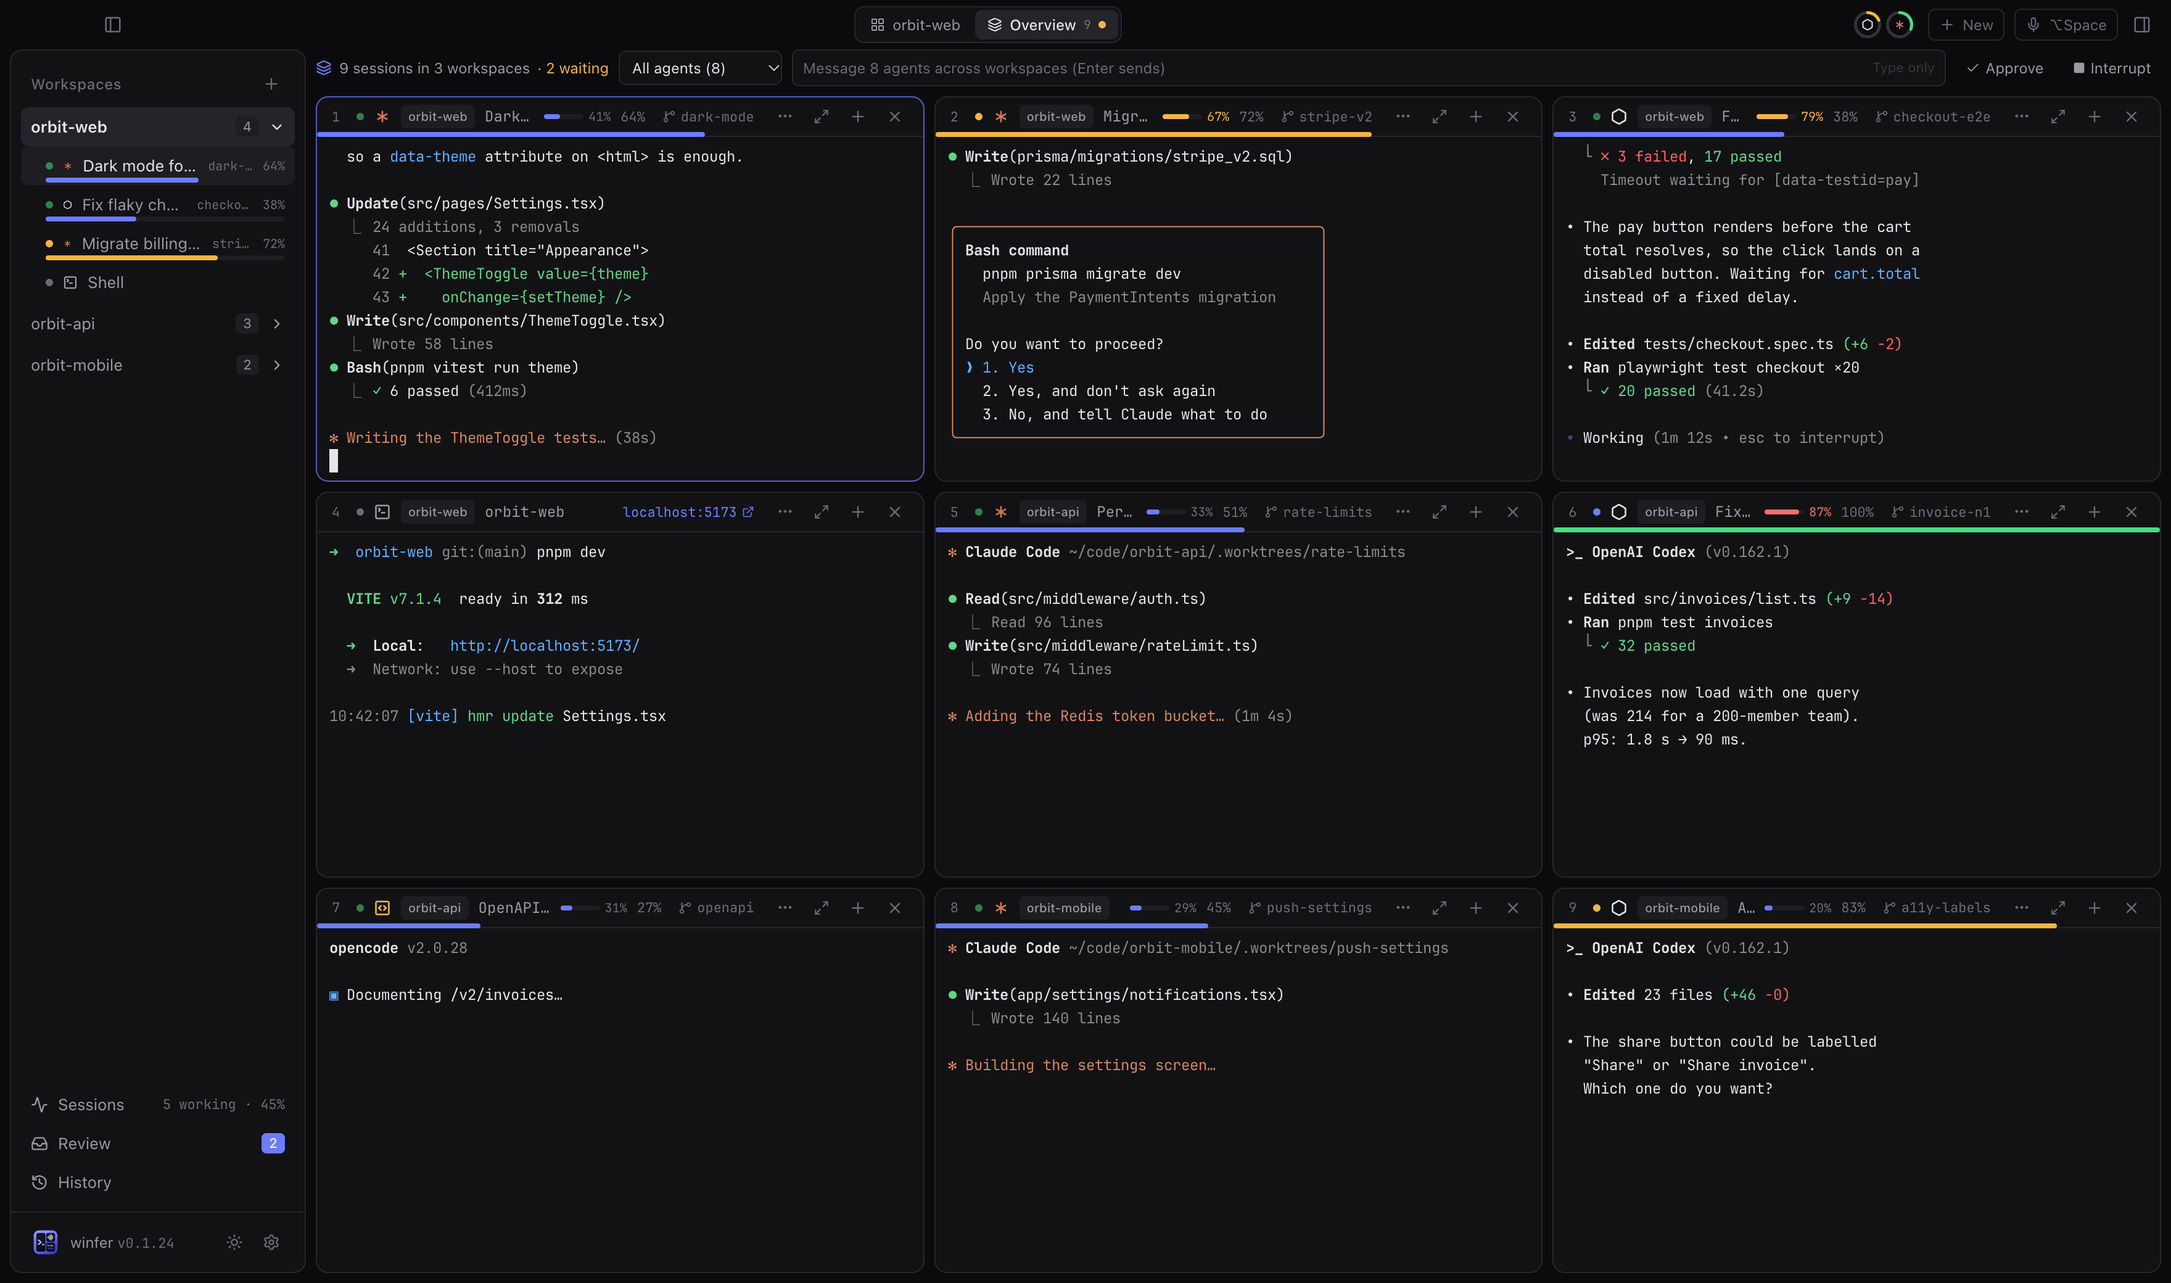
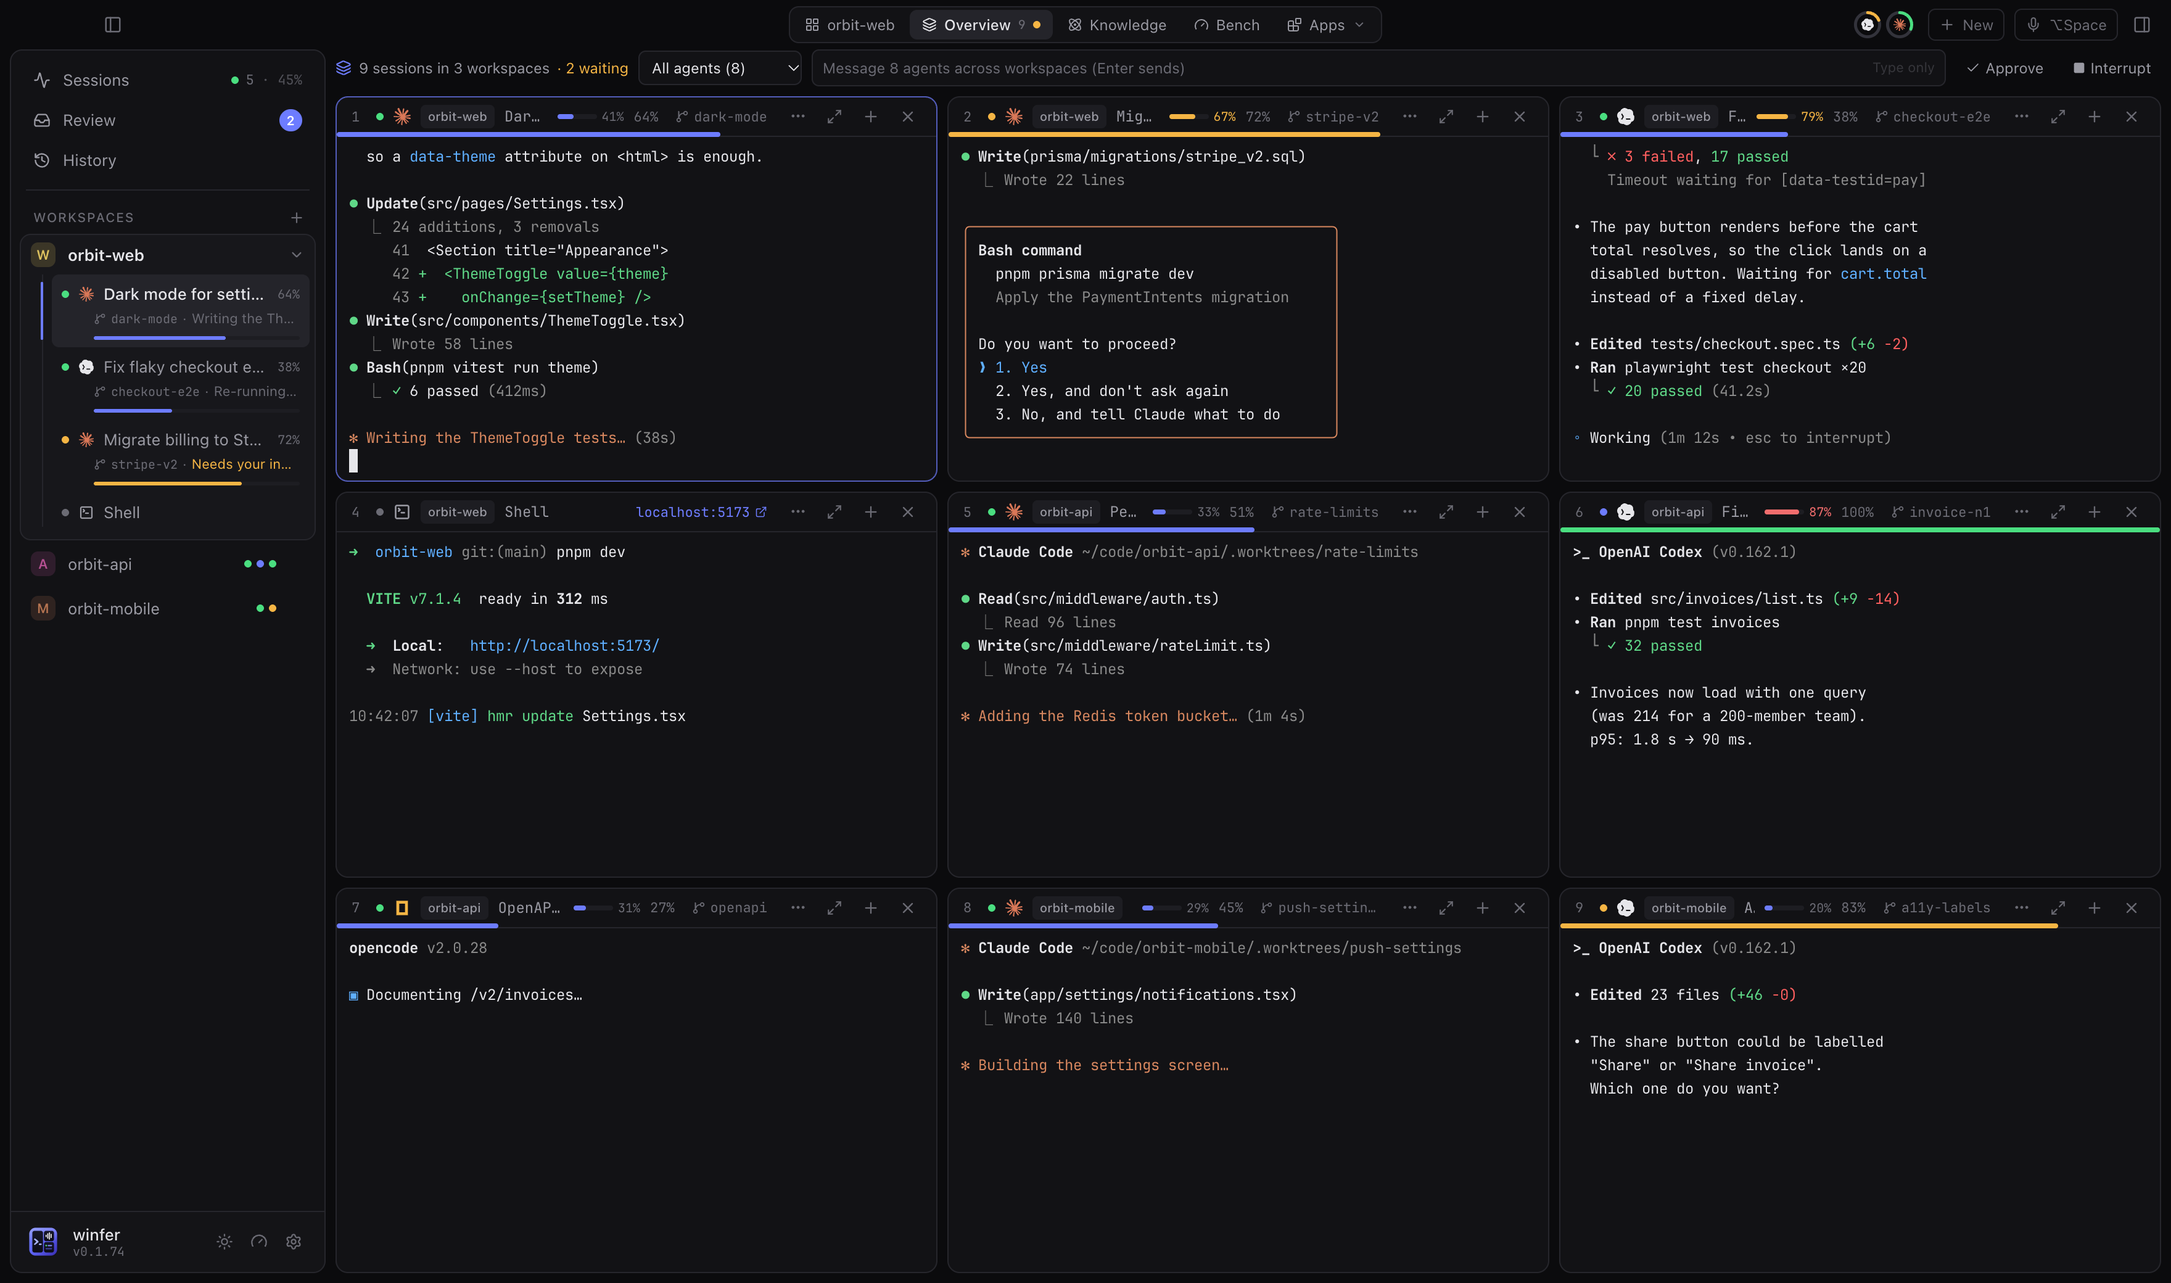
README Knowledge and Harness Bench sections, new screenshots, pane labels, plugin and harness fixes

diff --git a/src/dev/showcase.ts b/src/dev/showcase.ts
@@ -1,11 +1,27 @@
 /**
  * Dev-only demo data for marketing screenshots: open the dev server with `?showcase=<scene>`
- * (hero, overview, review, usage, sessions, light) and the mock backend serves this state,
+ * (hero, overview, review, usage, sessions, light, knowledge, bench) and the mock backend serves this state,
  * realistic agent sessions and a fake app in the browser. `scripts/screenshots.sh` captures
  * every scene into docs/screenshots.
  */
 
 export const SHOWCASE = new URLSearchParams(location.search).get("showcase");
+
+/** Scenes that show a plugin page instead of the workspace, keyed by scene. */
+const PAGE_SCENES: Record<string, string> = {
+  knowledge: "page:knowledge-base/galaxy",
+  bench: "page:harness-bench/bench",
+};
+// Headless Chrome's virtual time (scripts/screenshots.sh) leaves CSS animations and transitions
+// half-done in the capture, so the showcase shows every element in its final state.
+if (SHOWCASE) {
+  const style = document.createElement("style");
+  style.textContent = "*, *::before, *::after { animation: none !important; transition: none !important; }";
+  document.head.append(style);
+}
+
+/** Scenes without the browser panel. */
+const NO_BROWSER = SHOWCASE === "overview" || SHOWCASE === "review" || (SHOWCASE ?? "") in PAGE_SCENES;
 
 const ROOT = "/Users/maya/code";
 const wt = (repo: string, name: string, branch = `winfer/${name}`) => ({
@@ -174,7 +190,7 @@ export function showcaseState() {
     ui: {
       activeWorkspaceId: "ws-web",
       sidebarOpen: true,
-      browserOpen: SHOWCASE !== "overview" && SHOWCASE !== "review",
+      browserOpen: !NO_BROWSER,
       browserWidth: 520,
       sidePanel: "browser",
       theme,
@@ -250,7 +266,7 @@ const TRANSCRIPTS: Record<string, string> = {
     ),
   "p-e2e": lines(
     `${bold(">_ OpenAI Codex")} ${gray("(v0.162.1)")}`,
-    gray("model: gpt-5.5   directory: ~/code/orbit-web"),
+    gray("model: gpt-6.1-sol   directory: ~/code/orbit-web"),
     "",
     `${gray("›")} The checkout e2e test fails every few runs,`,
     `  find out why and fix it`,
@@ -477,7 +493,7 @@ export async function seedShowcase() {
     ],
   });
   // The browser panel shows the app the agents are working on.
-  if (SHOWCASE === "overview" || SHOWCASE === "review") return;
+  if (NO_BROWSER) return;
   browser.execute({ type: "browser.open", url: "http://localhost:5173/settings" });
 }
 
@@ -503,5 +519,11 @@ export async function stageScene() {
     meter?.click();
   }
   if (SHOWCASE === "overview") s.setActiveWorkspace("ws-web");
+  const page = PAGE_SCENES[SHOWCASE ?? ""];
+  if (page) {
+    s.setView(page as `page:${string}`);
+    // Let the page load its data (and the graph settle) before the capture.
+    await new Promise((r) => setTimeout(r, 2500));
+  }
   document.documentElement.dataset.showcaseReady = "1";
 }

diff --git a/src/features/terminal/PaneFrame.tsx b/src/features/terminal/PaneFrame.tsx
@@ -11,7 +11,7 @@ import { PaneSearch } from "./PaneSearch";
 import { beginDrag, useDrag } from "@/features/layout/drag";
 import { TerminalHost } from "./TerminalHost";
 import { useStarting } from "./xtermRegistry";
-import { paneTitle, providerName, useWorkspaces, type Pane } from "@/stores/workspaces";
+import { paneLabel, providerName, useWorkspaces, type Pane } from "@/stores/workspaces";
 import { useProgress } from "@/features/progress/progress";
 import { ProgressBar, progressLabel } from "@/features/progress/SessionsOverview";
 import { ContextMeter } from "@/features/usage/UsageMeter";
@@ -53,6 +53,7 @@ export function PaneFrame({ pane, index, focused, zoomed, onFocus, workspaceName
   const showProgress = pane.provider !== "shell" && progress?.percent != null;
   const starting = useStarting((s) => s[pane.id]);
   const name = useWorkspaces((s) => providerName(s.providers, pane.provider));
+  const label = useWorkspaces((s) => paneLabel(pane, s.providers, progress?.title ?? progress?.task));
   const [renaming, setRenaming] = useState(false);
   const [isNew] = useState(() => !seen.has(pane.id));
   seen.add(pane.id);
@@ -91,10 +92,10 @@ export function PaneFrame({ pane, index, focused, zoomed, onFocus, workspaceName
         ) : (
           <span
             className="flex-1 truncate font-mono text-xs text-fg-muted"
-            title={`${paneTitle(pane) ?? pane.title}\nDouble-click to rename`}
+            title={`${label === name ? name : `${name}: ${label}`}\nDouble-click to rename`}
             onDoubleClick={() => setRenaming(true)}
           >
-            {paneTitle(pane) ?? pane.title}
+            {label}
           </span>
         )}
         <ContextMeter paneId={pane.id} provider={pane.provider} />

diff --git a/src/features/workspaces/Sidebar.tsx b/src/features/workspaces/Sidebar.tsx
@@ -212,7 +212,7 @@ function WorkspacePanes({ workspace: ws, focusedPaneId, openMenu }: { workspace:
             onDoubleClick={() => setRenaming(pane.id)}
             onContextMenu={(e) => openMenu(e, { title: pane.worktree?.branch ?? pane.cwd, items: paneMenu(pane, () => setRenaming(pane.id)) })}
             className={cn(
-              "anim-slide relative ml-2 block w-[calc(100%-0.5rem)] cursor-default rounded-md px-2 py-1.5 text-left text-[13px] transition-colors duration-150",
+              "anim-slide relative ml-2 block w-[calc(100%-0.5rem)] cursor-pointer rounded-md px-2 py-1.5 text-left text-[13px] transition-colors duration-150",
               focused ? "bg-active text-fg" : "text-fg-muted hover:bg-hover hover:text-fg",
               drag?.id === pane.id && "opacity-50",
             )}
@@ -299,7 +299,7 @@ export function Sidebar() {
                 onContextMenu={(e) => openMenu(e, { title: ws.rootDir, items: workspaceMenu(ws) })}
                 title={`${ws.rootDir}\nDouble-click to open · drag to reorder`}
                 className={cn(
-                  "group flex w-full items-center gap-2.5 rounded-lg px-2 py-1.5 text-left text-[13px] transition-colors duration-150",
+                  "group flex w-full cursor-pointer items-center gap-2.5 rounded-lg px-2 py-1.5 text-left text-[13px] transition-colors duration-150",
                   active ? "font-semibold text-fg" : "text-fg-muted hover:bg-hover hover:text-fg",
                 )}
               >

diff --git a/src/dev/mockTauri.ts b/src/dev/mockTauri.ts
@@ -42,15 +42,15 @@ function installMockPlugin(id: string) {
   if (i >= 0) mockPlugins[i] = plugin;
   else mockPlugins.push(plugin);
 }
-// `?kb` starts with the Knowledge Base plugin installed (see ./knowledgeBase.ts).
-if (KB_DEMO) installMockPlugin("knowledge-base");
+// `?kb` starts with the Knowledge Base plugin installed (see ./knowledgeBase.ts); so does showcase mode.
+if (KB_DEMO || SHOWCASE) installMockPlugin("knowledge-base");
 // `?xp` starts with the Cross-Project Knowledge plugin and three linked demo projects (see ./crossProject.ts).
 if (XP_DEMO) {
   installMockPlugin("cross-project");
   seedCrossProject();
 }
-// `?bench` starts with Harness Bench and a fake runner (see ./harnessBench.ts).
-if (BENCH_DEMO) installMockPlugin("harness-bench");
+// `?bench` starts with Harness Bench and a fake runner (see ./harnessBench.ts); so does showcase mode.
+if (BENCH_DEMO || SHOWCASE) installMockPlugin("harness-bench");
 // Fake keychain: the vault keeps values here.
 const vault = new Map<string, { info: { key: string; meta: Record<string, unknown>; updatedAt: number }; value: string }>();
 // `?db` starts with Databases (one fake Postgres shop, see ./dbExplorer.ts) and Prompt Library.

diff --git a/plugins/knowledge-base/index.js b/plugins/knowledge-base/index.js
@@ -2584,8 +2584,14 @@ function searchNodes(g, text, limit = 12) {
 }
 
 function countUp(el, to) {
-  const start = performance.now();
+  if (matchMedia("(prefers-reduced-motion: reduce)").matches) {
+    el.textContent = to.toLocaleString();
+    return;
+  }
+  // Times from the first frame: performance.now() can run ahead of frame times (headless virtual time).
+  let start = null;
   const step = (t) => {
+    start ??= t;
     const k = Math.min(1, (t - start) / 900);
     el.textContent = Math.round(to * easeOut(k)).toLocaleString();
     if (k < 1 && el.isConnected) requestAnimationFrame(step);

diff --git a/src-tauri/src/harness/tui/app.rs b/src-tauri/src/harness/tui/app.rs
@@ -38,7 +38,7 @@ pub struct Launch {
 
 pub const COMMANDS: [(&str, &str); 22] = [
     ("/model", "Switch model (ChatGPT, Claude, Codex)"),
-    ("/effort", "Set reasoning effort"),
+    ("/effort", "Set reasoning effort (ctrl+r cycles)"),
     ("/mode", "Permission mode: ask, auto-edit, plan, yolo"),
     ("/new", "Start a new conversation"),
     ("/resume", "Resume a past session"),
@@ -778,7 +778,7 @@ impl App {
     }
 
     fn help(&mut self) {
-        let mut s = String::from("Keys\n  enter send · shift/alt+enter or ctrl+j newline · esc interrupt · ctrl+c clear/quit\n  shift+tab permission mode · ctrl+o expand details · ctrl+p command palette · ctrl+t model · ctrl+g subagents (ctrl+x there stops one) · ctrl+x plan (or click it)\n  ↑/↓ history · pgup/pgdn or wheel scroll · @ attach file · ctrl+v paste image · ! run shell command\n  drag to select and copy · double-click a word · triple-click a line · shift+drag for the terminal's own selection\n\nCommands\n");
+        let mut s = String::from("Keys\n  enter send · shift/alt+enter or ctrl+j newline · esc interrupt · ctrl+c clear/quit\n  shift+tab permission mode · ctrl+o expand details · ctrl+p command palette · ctrl+t model · ctrl+r effort · ctrl+g subagents (ctrl+x there stops one) · ctrl+x plan (or click it)\n  ↑/↓ history · pgup/pgdn or wheel scroll · @ attach file · ctrl+v paste image · ! run shell command\n  drag to select and copy · double-click a word · triple-click a line · shift+drag for the terminal's own selection\n\nCommands\n");
         for (c, d) in COMMANDS {
             s.push_str(&format!("  {c:<10} {d}\n"));
         }
@@ -1143,6 +1143,22 @@ impl App {
             }
         }
         self.saved.model = self.spec();
+    }
+
+    /// The effort levels ctrl+r steps through for this backend ("" = the model's default).
+    fn effort_levels(&self) -> &'static [&'static str] {
+        match self.kind {
+            Kind::Claude => &["", "low", "medium", "high", "xhigh", "max"],
+            _ => &["", "minimal", "low", "medium", "high", "xhigh"],
+        }
+    }
+
+    /// ctrl+r: next effort level, applied to the running session.
+    fn cycle_effort(&mut self) {
+        let levels = self.effort_levels();
+        let cur = self.config.effort.as_deref().unwrap_or("");
+        let next = levels.iter().position(|l| *l == cur).map_or(0, |i| (i + 1) % levels.len());
+        self.set_effort(levels[next]);
     }
 
     fn set_effort(&mut self, e: &str) {
@@ -1532,6 +1548,7 @@ impl App {
             KeyCode::Char('o') if ctrl => self.toggle_expanded(),
             KeyCode::Char('p') if ctrl => self.open_palette(),
             KeyCode::Char('t') if ctrl => self.open_models(),
+            KeyCode::Char('r') if ctrl => self.cycle_effort(),
             KeyCode::Char('g') if ctrl => self.open_agents(),
             KeyCode::Char('x') if ctrl => self.plan_open = !self.plan_open,
             KeyCode::Char('l') if ctrl => self.scroll = 0,
@@ -1794,6 +1811,20 @@ mod tests {
 
     fn key(app: &mut App, code: KeyCode) {
         app.on_term(Event::Key(KeyEvent::new(code, KeyModifiers::NONE)));
+    }
+
+    #[test]
+    fn ctrl_r_cycles_effort() {
+        let mut a = app();
+        let ctrl_r = |a: &mut App| a.on_term(Event::Key(KeyEvent::new(KeyCode::Char('r'), KeyModifiers::CONTROL)));
+        ctrl_r(&mut a);
+        assert_eq!(a.config.effort.as_deref(), Some("low"));
+        for _ in 0..4 {
+            ctrl_r(&mut a);
+        }
+        assert_eq!(a.config.effort.as_deref(), Some("max"));
+        ctrl_r(&mut a);
+        assert_eq!(a.config.effort, None);
     }
 
     #[test]

diff --git a/src-tauri/src/harness/backend/claude.rs b/src-tauri/src/harness/backend/claude.rs
@@ -275,7 +275,12 @@ impl Bridge {
             }
             Cmd::SetModel(model) => self.control(proc, json!({ "subtype": "set_model", "model": model })),
             Cmd::SetMode(mode) => self.control(proc, json!({ "subtype": "set_permission_mode", "mode": permission_mode(mode) })),
-            Cmd::SetEffort(_) => self.emit(Ev::Notice("Effort applies to the next Claude Code session (/new).".into())),
+            // Live: Claude Code applies `effortLevel` from flag settings to the running session (as
+            // its own /effort does); null goes back to the model's default.
+            Cmd::SetEffort(e) => {
+                let level = e.map(|e| if e == "minimal" { "low".to_string() } else { e });
+                self.control(proc, json!({ "subtype": "apply_flag_settings", "settings": { "effortLevel": level } }));
+            }
             Cmd::Compact => {
                 self.busy = true;
                 self.emit(Ev::TurnStart);

diff --git a/README.md b/README.md
@@ -59,6 +59,23 @@ an agent that still has room — same worktree, with the task and its progress.
 
 ![Usage limits for Claude Code, Codex and OpenCode](docs/screenshots/usage.png)
 
+## See your codebase the way the agents do
+
+The **Knowledge** plugin turns each project into a graphify knowledge graph you explore as a live
+3D galaxy, a flat galaxy or a plain 2D map. Ask it questions, trace paths and impact, replay call
+flows step by step — and watch which parts of the code each agent is looking at right now. Agents
+query the same graph with tools.
+
+![The Knowledge page: a project's knowledge graph with the agents' positions on it](docs/screenshots/knowledge.png)
+
+## Pick the best harness for the job
+
+**Harness Bench** runs winfer code, Codex, Claude Code, pi and OpenCode on the same tasks with the
+models you pick, and compares pass rate, time, tokens and tool calls — with an overall winner, a
+timeline of every run and charts per task.
+
+![Harness Bench: winfer code and Codex compared on the same tasks](docs/screenshots/bench.png)
+
 ## Also in the box
 
 - **Agents can use the browser.** The built-in Chromium is shared with Claude Code, Codex and
@@ -71,6 +88,8 @@ an agent that still has room — same worktree, with the task and its progress.
 - **Worktrees without the bookkeeping.** Existing worktrees and branches show up in the sidebar
   with their age and whether they're merged; start an agent on any branch.
 - **A terminal tab** next to the browser for quick commands, and plain shell panes anywhere.
+- **A plugin store** in Settings → Plugins: Databases, Task Board, Prompt Library, Secrets,
+  Telegram, Screen Recorder, Cross-Project Knowledge and more — or [write your own](docs/plugins/README.md).
 - **Every shortcut can be changed**, light and dark mode, resizable everything.
 
 ![winfer in light mode](docs/screenshots/light.png)
@@ -94,6 +113,8 @@ cd src-tauri && cargo test
 ```
 
 `pnpm dev` alone runs the UI in a browser against a mock backend. The screenshots above come from
-its showcase mode: start `pnpm dev`, then run `scripts/screenshots.sh`.
+its showcase mode (`?showcase=hero`, `overview`, `review`, `usage`, `sessions`, `light`, `knowledge`
+or `bench`): start `pnpm dev`, then run `scripts/screenshots.sh` (or `scripts/screenshots.sh bench`
+for one scene).
 
 See [TESTING.md](TESTING.md) for the manual test checklist.

diff --git a/plugins/harness-bench/bench/tasks/23-py-refactor-dedupe/task.md b/plugins/harness-bench/bench/tasks/23-py-refactor-dedupe/task.md
@@ -1,1 +1,1 @@
-`sales_report`, `refund_report` and `inventory_report` in reports.py are near-duplicates. Refactor: extract the shared logic (filtering, grouping, totalling, sorting, rendering) into a single private helper function in reports.py that all three call. The three public functions must keep their exact signatures and byte-for-byte output for every input, and must not contain any loops themselves (no `for`/`while`, no comprehensions); they should only configure the helper. `python3 -m unittest discover -s tests` must still pass; don't change the tests.
+`sales_report`, `refund_report` and `inventory_report` in reports.py are near-duplicates. Refactor: extract the shared logic (filtering, grouping, totalling, sorting, rendering) into a single private helper function in reports.py that all three call. The three public functions must keep their exact signatures and byte-for-byte output for every input, and must not contain any loops themselves (no `for`/`while`, no comprehensions); they should only configure the helper. The refactor must cut reports.py by at least 20% of its non-blank, non-comment lines. `python3 -m unittest discover -s tests` must still pass; don't change the tests.

diff --git a/plugins/harness-bench/bench/tasks/22-py-dataclass-json/task.md b/plugins/harness-bench/bench/tasks/22-py-dataclass-json/task.md
@@ -1,1 +1,1 @@
-Implement `to_json` and `from_json` in app/serde.py as described in its docstring, so the dataclasses in app/models.py (and any other dataclasses built from the same kinds of field types) round-trip through JSON. Python standard library only. `python3 -m unittest discover -s tests` must pass; add tests if you like.
+Implement `to_json` and `from_json` in app/serde.py as described in its docstring, so the dataclasses in app/models.py (and any other dataclasses built from the same kinds of field types) round-trip through JSON. Python standard library only. `python3 -m unittest discover -s tests` must pass; you may add tests in new files under tests/, but leave tests/test_serde.py unchanged.
